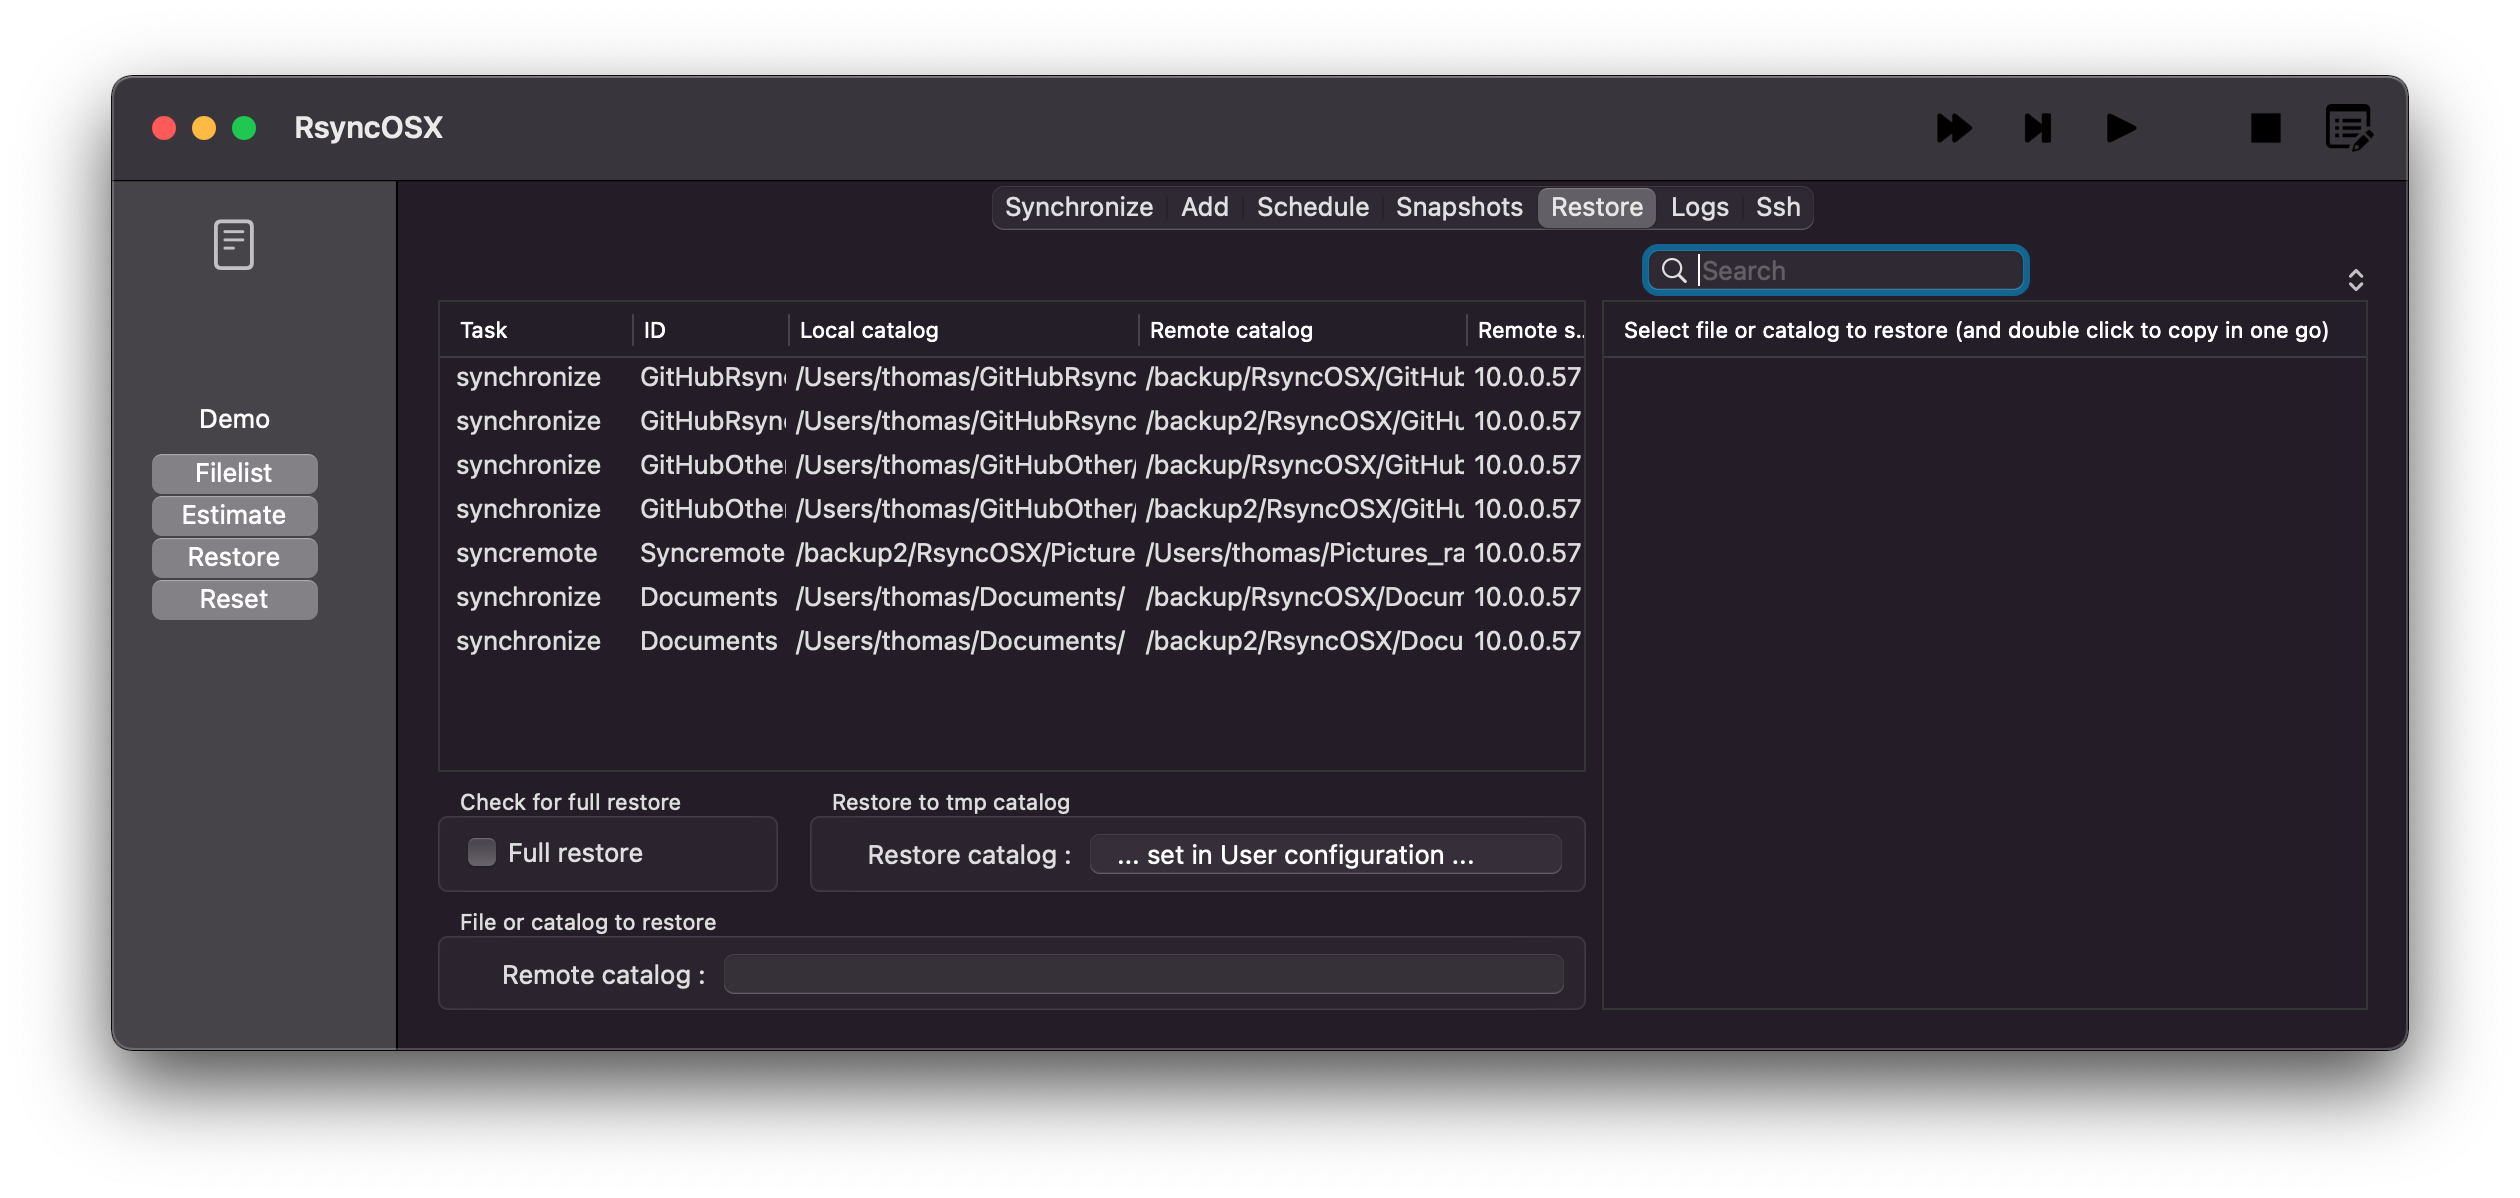
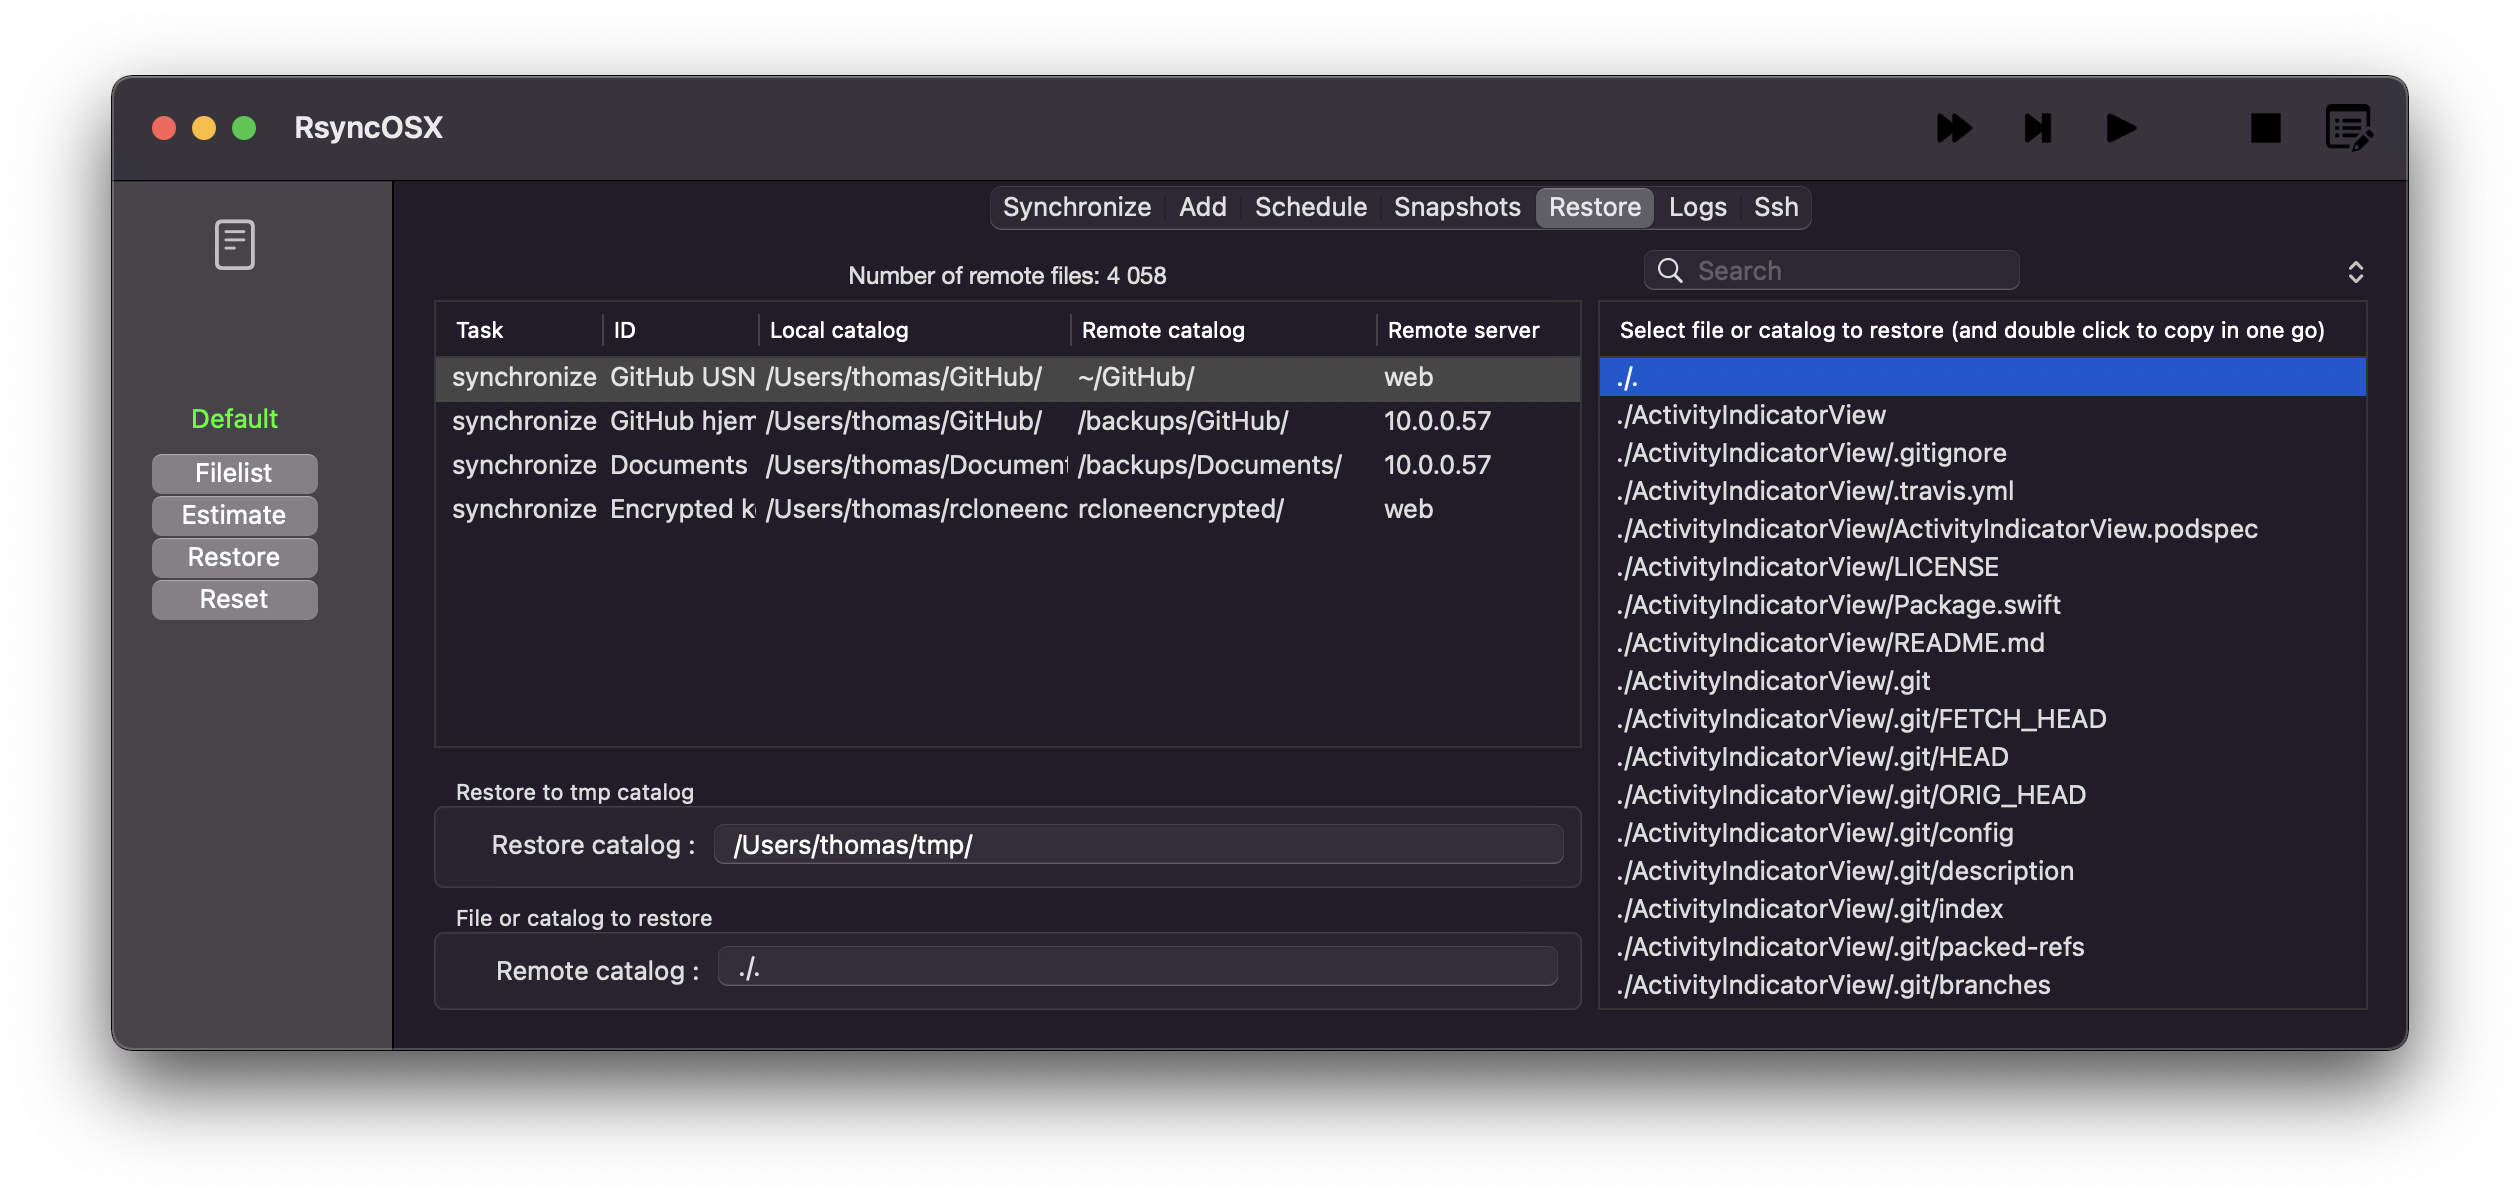
update

diff --git a/content/post/Restore.md b/content/post/Restore.md
@@ -7,30 +7,20 @@ categories = ["synchronize"]
 description = "How to restore files, there are two options."
 lastmod = "2020-12-13"
 +++
-A restore should always be executed carefully. There is always a possibilty to delete or replace newer files with older when executing a restore. It is **only allowed** to do a restore to a temporary restore catalog. To set a temporary restore path [select userconfiguration](/post/userconfiguration/) and set `temporary path restore`.
+A restore of files should always be executed carefully. It is **only allowed** to do a restore of files to a temporary restore catalog. To set a temporary restore path [select userconfiguration](/post/userconfiguration/) and set `temporary path restore`.
+
+{{< image src="/images/RsyncOSX/master/restore/restore.png" alt="" position="center" style="border-radius: 8px;" >}}
 
 There are two types of restore:
 
 - full restore
-  - if the remote (destination) is a snapshot the Full restore is from the latest snapshot
 - restore files
-  - if the remote (destination) is a snapshot the file list might be huge, depends upon how many snapshots and how many files in a snapshot
-  - any file from any snapshot might be restored
+  - if the remote is a snapshot the list of files might be huge, depends upon how many snapshots and how many files in a snapshot
 
-Step one in a restore is to select from which configuration a restore is to be executed.
+A restore **always** start with selecting the task and then the `Filelist` button. From the list of files either select the `./.` or any catalog or file. If the `./.` is selected a full restore will be executed.
 
-To do a restore, either full or by file, an estimation is normally required. The status light changes from red to yellow when an estimation can be executed. The status light is green when a restore can be executed.
+After selecting do an `Estimate` and then a `Restore`.
 
-You can restore single file or catalogs by a double click in the right table, if restore by files are selected and RsyncOSX has retrieved file list from remote location.
+## Restore without estimation
 
-## Full restore
-
-A full restore might be restored to the original source catalog on the Mac. It is not advised to do so. Always execute a restore to the temporary restore path.
-
-{{< image src="/images/RsyncOSX/master/restore/restore.png" alt="" position="center" style="border-radius: 8px;" >}}
-
-The button `Do the real thing:` must be checked before a restore can be executed (after an estimation run). If not only a simulation message is shown.
-
-## Restore files
-
-To restore files or catalogs select the restore by file button. RsyncOSX retrieves files from remote location. Select either a file or catalog, execute an `Estimate` and then a `Restore`. A double click on a file or catalog in right table will execute a restore right away.
+A double click on a file or catalog in the list of files will execute a restore right away.
